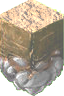
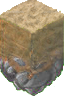
Mejoras de imagenes

diff --git a/cliente/src/main/java/graphic/Grafico.java b/cliente/src/main/java/graphic/Grafico.java
@@ -28,7 +28,7 @@ public class Grafico {
 		agua = cargarSprite("src/main/resources/Agua.png");
 		vacio = cargarSprite("src/main/resources/Vacio.png");
 		arena = cargarSprite("src/main/resources/Arena.png");
-		lava = cargarSprite("src/main/resources/Lava.png");
+		lava = cargarSprite("src/main/resources/LavaConOnda.png");
 	}
 
 
